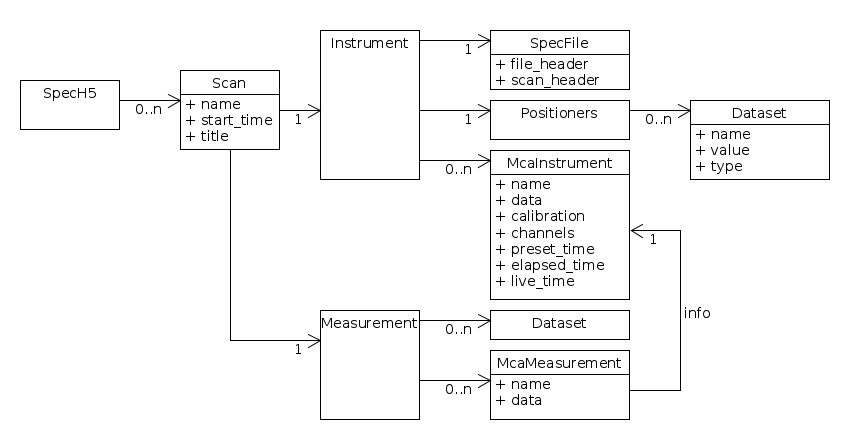
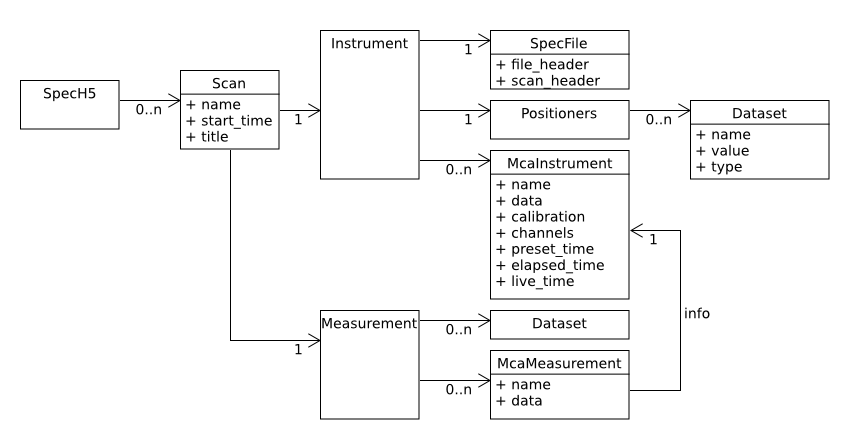
Use PNG instead of SVG

diff --git a/python/io/index.rst b/python/io/index.rst
@@ -90,7 +90,7 @@ The container is mostly structured with:
 - **Dataset**: a multidimensional array of data elements
 - And other features (links, attributes, datatypes)
 
-.. image:: images/hdf5_model.svg
+.. image:: images/hdf5_model.png
 
 ----
 
@@ -185,7 +185,7 @@ subset of the HDF5 model.
 HDF5-like mapping
 -----------------
 
-.. image:: images/spech5_model.svg
+.. image:: images/spech5_model.png
 
 ----
 
